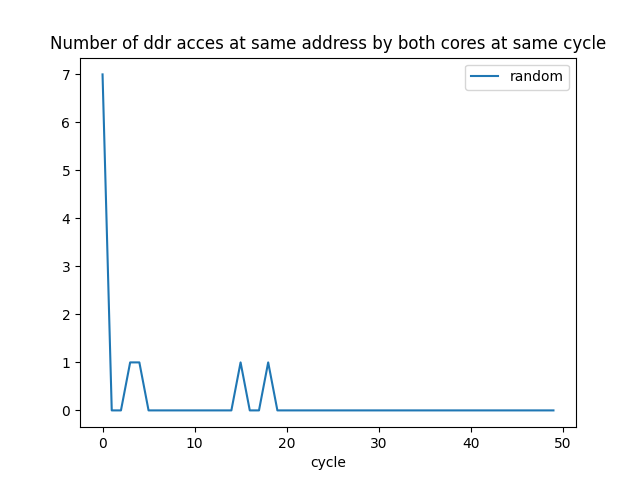
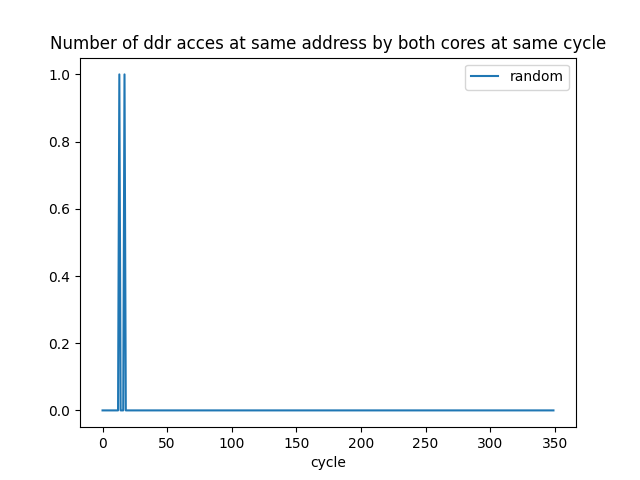
update

diff --git a/sim/sim_use.py b/sim/sim_use.py
@@ -7,7 +7,7 @@ from sim.class_mem_sim import Interconnect, MultiLevelCache
 from sim.ddr import DDRMemory
 import matplotlib.pyplot as plt
 class runpgrms: 
-    def __init__(self, core1, core0, max_instr, interconnect, ddr):   
+    def __init__(self, core1, core0, max_instr, interconnect, ddr, max_len =350):   
         self.nb_read =0   
         self.interconnect = interconnect
         self.ddr = ddr
@@ -22,15 +22,16 @@ class runpgrms:
         self.list_acces_ddr1 = []    
         self.list_best_request1 = []    
         self.list_address1 = []   
+        self.max_len = max_len
 
-        self.out0 = {"addr":-np.ones(50),
-               "bank":-np.ones(50),
-               "delay":-np.ones(50),
-               "status":-np.ones(50)}
-        self.out1 = {"addr":-np.ones(50),
-               "bank":-np.ones(50),
-               "delay":-np.ones(50),
-               "status":-np.ones(50)}
+        self.out0 = {"addr":-np.ones(self.max_len),
+                    "bank":-np.ones(self.max_len),
+                    "delay":-np.ones(self.max_instr),
+                    "status":-np.ones(self.max_len)}
+        self.out1 = {"addr":-np.ones(self.max_len),
+                    "bank":-np.ones(self.max_len),
+                    "delay":-np.ones(self.max_instr),
+                    "status":-np.ones(self.max_len)}
 
     def eviction(self):
         self.list_acces_ddr1 = []    
@@ -41,13 +42,13 @@ class runpgrms:
         self.list_best_request0 = []    
 
         self.out0 = {"addr":-np.ones(50),
-               "bank":-np.ones(50),
-               "delay":-np.ones(50),
-               "status":-np.ones(50)}
+                    "bank":-np.ones(50),
+                    "delay":-np.ones(50),
+                    "status":-np.ones(50)}
         self.out1 = {"addr":-np.ones(50),
-               "bank":-np.ones(50),
-               "delay":-np.ones(50),
-               "status":-np.ones(50)}
+                    "bank":-np.ones(50),
+                    "delay":-np.ones(50),
+                    "status":-np.ones(50)}
 
     def _execut_instr(self, instr:list[dict], cycle:int):    
         """
@@ -104,15 +105,15 @@ class runpgrms:
     def reorder(self):
         for d in self.list_best_request0:
             if d["core"]==0:
-                self.out0["addr"][d["emmission_cycle"]] = d["addr"]
-                self.out0["bank"][d["emmission_cycle"]] = d["bank"]
-                self.out0["delay"][d["emmission_cycle"]] = d["delay"]
-                self.out0["status"][d["emmission_cycle"]] = 1*d["status"]=="ROW MISS"
+                self.out0["addr"][d["arrival_time"]] = d["addr"]
+                self.out0["bank"][d["arrival_time"]] = d["bank"]
+                self.out0["delay"][d["emmission_cycle"]] = d["emmission_cycle"]
+                self.out0["status"][d["arrival_time"]] = 1*d["status"]=="ROW MISS"
             elif d["core"]==1:
-                self.out1["addr"][d["emmission_cycle"]] = d["addr"]
-                self.out1["bank"][d["emmission_cycle"]] = d["bank"]
-                self.out1["delay"][d["emmission_cycle"]] = d["delay"]
-                self.out1["status"][d["emmission_cycle"]] = 1*d["status"]=="ROW MISS"
+                self.out1["addr"][d["arrival_time"]] = d["addr"]
+                self.out1["bank"][d["arrival_time"]] = d["bank"]
+                self.out1["delay"][d["emmission_cycle"]] = d["emmission_cycle"]
+                self.out1["status"][d["arrival_time"]] = 1*d["status"]=="ROW MISS"
             else:
                 print("erreur")
                 exit()

diff --git a/test_random.py b/test_random.py
@@ -18,22 +18,24 @@ class Env:
                 l1_conf = {'size': 32,  'line_size': 4, 'assoc': 2},
                 l2_conf = {'size': 128, 'line_size': 4, 'assoc': 4},
                 l3_conf = {'size': 512, 'line_size': 4, 'assoc': 8},
-                length_programs = 50):
+                length_programs = 50,
+                max_len=350):
         self.l1_conf = l1_conf
         self.l2_conf = l2_conf
         self.l3_conf = l3_conf
+        self.max_len = max_len
         self.length_programs = length_programs
     def __call__(self, parameter:dict):
         ddr = DDRMemory()
         interconnect = Interconnect(ddr, delay=5, bandwidth=4)
         core0 = MultiLevelCache(0, self.l1_conf, self.l2_conf, self.l3_conf, interconnect)
         core1 = MultiLevelCache(1, self.l1_conf, self.l2_conf, self.l3_conf, interconnect)
-        program = runpgrms(core0, core1, self.length_programs, interconnect, ddr)
+        program = runpgrms(core0, core1, self.length_programs, interconnect, ddr, max_len=max_len)
         program(parameter["core0"][0], parameter["core1"][0])
         return {"core0":program.out0, "core1":program.out1}
 
 class RANDOM:
-    def __init__(self,N:int, N_init:int,E:Env,H:History, periode:int = 1):
+    def __init__(self,N:int, N_init:int,E:Env,H:History2):
         """
         N: int. The experimental budget
         N_init: int. Number of experiments at random
@@ -43,50 +45,31 @@ class RANDOM:
         self.env = E
         self.H = H
         self.N_init = N_init
-        self.periode = periode
     def __call__(self):
         for i in range(self.N):
             if i<self.N_init:
                 parameter = make_random_paire_list_instr()
             self.H.store({"program":parameter}|self.env(parameter))
 if __name__=="__main__":
-
-    # Simulation setup
-    
 #    random.seed(0)
-
-
     N = int(1000)
-    
-    ddr = DDRMemory()
-    interconnect = Interconnect(ddr, delay=5, bandwidth=4)
-    l1_conf = {'size': 32,  'line_size': 4, 'assoc': 2}
-    l2_conf = {'size': 128, 'line_size': 4, 'assoc': 4}
-    l3_conf = {'size': 512, 'line_size': 4, 'assoc': 8}
-    core0 = MultiLevelCache(0, l1_conf, l2_conf, l3_conf, interconnect)
-    core1 = MultiLevelCache(1, l1_conf, l2_conf, l3_conf, interconnect)
-    program = runpgrms(core0, core1, 50, interconnect, ddr)
+    max_len = 350  
+    length_programs = 100
 
 
     H = History2(max_size=1000)
-    En = Env(length_programs=100)
-    parameter = make_random_paire_list_instr()
-    observation = En(parameter)
-    H.store({"program":parameter} | observation)
+    En = Env(length_programs=length_programs, max_len=max_len)
     imgep = RANDOM(N = 10,N_init=10,E = En, H = H)
     imgep()
-    #imgep.__init__
     for j in range(10):
         print(H.memory_program["core0"][j][0])
     tab_delay = np.array(H.memory_signature["core0"]["delay"])
     print(len(tab_delay))
     for j in range(len(tab_delay)):
-        plt.plot(tab_delay[j], label=j)
+        plt.plot(range(length_programs),tab_delay[j], label=j)
         plt.title("delays")
     plt.legend()
     plt.show()
-    print("shape", tab_delay.shape)
-    #exit()
     def countDDR(H:History2):
         def same(string):
             A = np.array(H.memory_signature["core0"][string])
